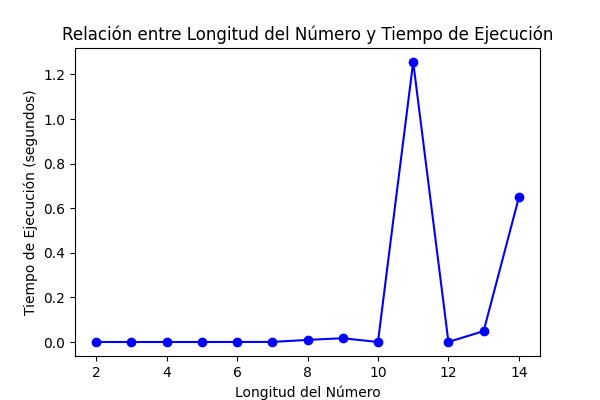
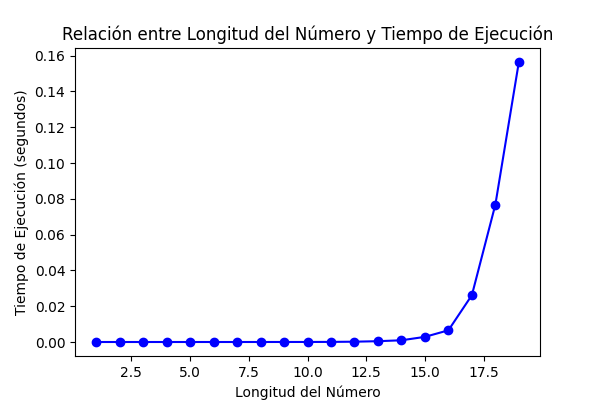
Report WIP

diff --git a/report/parts/2-desarrollo.tex b/report/parts/2-desarrollo.tex
@@ -21,6 +21,18 @@ Por lo tanto, el algoritmo diseñado para comprobar si un número natural $n$ es
 
 La implementación usada, en C++, se puede encontrar en \href{run:./src/primes/primes.hpp}{\texttt{src/primes/primes.hpp}} (función \texttt{is\_prime}).
 
+\section{Implementación}
+\subsection{Tests Funcionamiento }
+Para comprobar el correcto funcionamiento de los algoritmos implementados, se han llevado a cabo una batería de tests, tanto para verificar que los resultados obtenidos son correctos, como para poder evaluar el rendimiento de ejecución para differentes tamaños de números
+
+
+\subsubsection{Test funcionales}
+
+Con estos test lo que se busca es probar que el algoritmo desarrollado funciona correctamente para ello se ha prubado a ejecutar con números que previamente se conoce si son primos o no. En todos los casos se han obtenido resultados correctos por lo que se puede concluir que funciona correctamente
+\begin{figure}[H]
+			\makebox[\textwidth][c]{\includegraphics[width=5cm]{img/uc3m_logo.png}}
+\end{figure}
+  
 
 \section{Evaluación analítica}
 \subsection{Test de primalidad}
@@ -39,7 +51,16 @@ La memoria es independiente del tamaño del problema, por lo que la complejidad 
 
 
 \section{Evaluación empírica}
-\subsection{Test de primalidad}
 
+Para evaluar el rendimeinto, se ha ejecutado el programa en todo el rango de valores posibles que permite el sistema, desde números unidígito, hasta lo máximo posible que permite el sistema, en este caso números de 20 digitos. Para obtener dicho número máximo, se emplea la variable \texttt{MAX\_UINT} que retona el mayor número posible de computa en C++.\\
+\\
+Para cada longitud de numeros se calculan un total de 900 numeros aleatorios y se aplica la función a cada uno de ellos para saber si es primo, de tal forma que se obtiene la media de tiempo de ejecución para dicha longitud de número, de esta manera se busca obtener resultados lo más fiable posibles.\\
+
+
+Una vez obtenidos los resultado indicados previamente, se guardan en formato CSV y se representan gráficamente mediante la librería 'matplotlib'. Dicha representacion gŕfica resulta de gran utilidad para comprobar como el tiempo de ejecución se mantiene etable con pequeñas variaciones para número de hasta 15 digitos, de ahí en adelante se aprecia que acada aumento de tamaño de número se trduce en un aumento cada vez más significativo en el tiempo de ejecución 
+
+\begin{figure}[H]
+	\makebox[\textwidth][c]{\includegraphics[width=15cm]{img/scatter_plot_primes.png}}
+\end{figure}
 
 \newpage

diff --git a/src/test.py b/src/test.py
@@ -27,11 +27,12 @@ def primes_perf():
 
     n = random.randint(minN, maxN)
 
-    while maxN < sys.maxsize:
+    while maxN < primeslib.MAX_UINT:
         counter = 0
         times = []
 
-        while counter < 9:
+        while counter < 900:
+            n = random.randint(minN, maxN)
             inicio_tiempo = perf_counter()
             resultado_actual = primeslib.is_prime(n)
             fin_tiempo = perf_counter()
@@ -44,10 +45,9 @@ def primes_perf():
         minN = maxN
         maxN = maxN*10
 
-        print(f"Iteración: IsPrime({n}) = {resultado_actual}")
+        print(f"Iteración {len(str(maxN))}: {n}")
         print(f"Tiempo de ejecución: {fin_tiempo - inicio_tiempo} segundos\n")
 
-        n = random.randint(minN, maxN)
 
     return numeros, tiempos
 
@@ -96,12 +96,12 @@ def plot_performance(numeros, tiempos, function):
 
     # Mostrar el gráfico
     if function == 'gcd':
-        plt.savefig('../report/img/scatter_plot_gcd.png')
+        plt.savefig('report/img/scatter_plot_gcd.png')
     else:
-        plt.savefig('../report/img/scatter_plot_primes.png')
+        plt.savefig('report/img/scatter_plot_primes.png')
 
 
-def save_csv(numbers, times, filename='../data/output_gcd.csv'):
+def save_csv(numbers, times, filename='data/output_gcd.csv'):
 
     data = zip(numbers, times)
     # Write to CSV file
@@ -111,7 +111,7 @@ def save_csv(numbers, times, filename='../data/output_gcd.csv'):
         csv_writer.writerows(data)  # Write data
 
 
-def save_csv2(numbers, times, filename='../data/output_primes.csv'):
+def save_csv2(numbers, times, filename='data/output_primes.csv'):
 
     data = zip(numbers, times)
     # Write to CSV file
